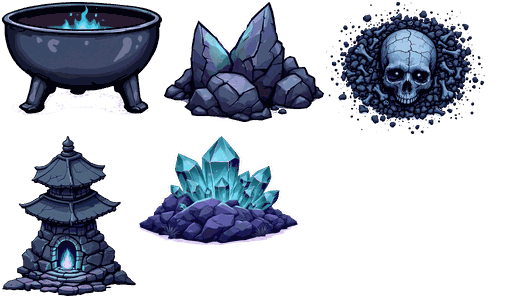
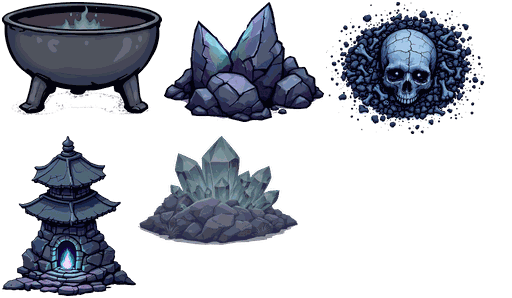
Chapters 4 and 5: flatter grounds so the horde reads on a phone
The cave was dark and busy (ground L* median 18, deep cracks right at the
mobs' ink lightness) and its cyan crystals and cauldron flame outshone the
teal robes. It is now flattened to a third of its spread, lifted to a mid,
nearly grey stone between the ink and the robes, and the two loud props are
toned down by dim_props.py. The street keeps its warm grey but goes darker
with every tone pulled toward the slab (flagstone_tile.py --relief), so the
ghosts stand above it. Mob pixels within dE 15 of the ground behind them on
a paused phone frame, wave 12: ch5 32.1% to 19.1%, ch4 17.1% to 16.4%
(160-mob sandbox: 37.5% to 26.4%, 21.4% to 17.7%). READMEs carry the
commands and numbers.

Changed region(s): [[0.25, 0.453, 0.5938, 0.8456], [0.0, 0.0, 0.3125, 0.3624], [0.2188, 0.302, 0.2812, 0.3624]]

diff --git a/tools/flagstone_tile.py b/tools/flagstone_tile.py
@@ -1,6 +1,9 @@
 """Draws a seamless flagstone ground tile: staggered rows of uneven slabs with dark seams,
 a few cracks, puddles and paper scraps, in flat colours (no generated picture needed).
 usage: python flagstone_tile.py <out.png> [--size 512] [--seed 4] [--rgb 70,78,96] [--seam 0.55]
+       [--relief 1]
+--relief scales every tone's distance from the slab colour (seams, lips, puddles, scraps): below 1
+flattens the street so the characters on it read first.
 Everything is drawn on a 3x3 canvas and the middle cut out, so slabs that cross an edge
 wrap round to the other side."""
 import argparse
@@ -14,20 +17,23 @@ ap.add_argument("--size", type=int, default=512)
 ap.add_argument("--seed", type=int, default=4)
 ap.add_argument("--rgb", default="70,78,96", help="the slabs' mean colour")
 ap.add_argument("--seam", type=float, default=0.55, help="the seams' and cracks' share of the slab colour")
+ap.add_argument("--relief", type=float, default=1.0, help="how far the other tones stray from the slab colour")
 ap.add_argument("--colors", type=int, default=64)
 a = ap.parse_args()
 
 rnd = random.Random(a.seed)
 N = a.size
 base = tuple(int(v) for v in a.rgb.split(","))
-SEAM = tuple(max(0, int(c * a.seam)) for c in base)
-ROWS = 5
-row_h = N // ROWS
 
 
 def jitter(c, k):
+    k = 1 + (k - 1) * a.relief if a.relief != 1 else k
     return tuple(max(0, min(255, int(v * k))) for v in c)
 
+
+SEAM = jitter(base, a.seam)
+ROWS = 5
+row_h = N // ROWS
 
 img = Image.new("RGB", (3 * N, 3 * N), SEAM)
 d = ImageDraw.Draw(img)
@@ -89,7 +95,8 @@ for _ in range(9):
     s = rnd.randint(7, 11)
     t = rnd.uniform(-0.5, 0.5)
     quad = [(x - s, y - s * 0.6 + t * s), (x + s, y - s * 0.6 - t * s), (x + s, y + s * 0.6 - t * s), (x - s, y + s * 0.6 + t * s)]
-    paper = jitter((124, 130, 146), rnd.uniform(0.85, 1.0))
+    k = rnd.uniform(0.85, 1.0)
+    paper = tuple(int(b + (int(p * k) - b) * a.relief) for b, p in zip(base, (124, 130, 146)))
     each(lambda ox, oy, quad=quad, paper=paper: d.polygon([(px + ox, py + oy) for px, py in quad], fill=paper))
 
 tile = img.crop((N, N, 2 * N, 2 * N))

diff --git a/art/monk/ground/demon/dim_props.py b/art/monk/ground/demon/dim_props.py
@@ -1,0 +1,30 @@
+"""Tones chapter 5's loud props (the cyan crystals, the cauldron's flame) down toward the cave stone,
+so they stop competing with the teal-robed horde: cut out, saturation and the spread of
+brightness are cut, the black outline is kept.
+usage: python dim_props.py name... (reads <name>_v2.png, writes <name>_v3.png, already cut out)"""
+import sys
+from pathlib import Path
+
+import numpy as np
+from PIL import Image
+
+sys.path.insert(0, str(Path(__file__).resolve().parents[4] / 'tools'))
+from cutout import cutout  # noqa: E402
+
+SAT = 0.4       # saturation multiplier
+SPREAD = 0.45   # brightness spread around MID
+MID = 0.34      # the stone's brightness the props are pulled toward
+OUTLINE = 0.16  # darker than this is ink and stays
+
+for name in sys.argv[1:]:
+    im = cutout(f'{name}_v2.png')
+    alpha = im.getchannel('A')
+    hsv = np.asarray(im.convert('RGB').convert('HSV'), dtype=np.float32) / 255
+    v = hsv[..., 2]
+    ink = v < OUTLINE
+    hsv[..., 1] *= SAT
+    hsv[..., 2] = np.where(ink, v, MID + (v - MID) * SPREAD)
+    out = Image.fromarray((np.clip(hsv, 0, 1) * 255).round().astype(np.uint8), 'HSV').convert('RGB')
+    out.putalpha(alpha)
+    out.save(f'{name}_v3.png', optimize=True)
+    print(name, out.size)

diff --git a/art/monk/ground/demon/README.md b/art/monk/ground/demon/README.md
@@ -2,13 +2,24 @@
 
 - **Tile**: `cave_src.png`, generated from `cave.txt` (its embers asked for cold blue, not
   violet), cropped to its inner square 180,60-880,760 past the vignette and made seamless by
-  `tools/make_tile.py --value 0.24 --sat 0.7 --contrast 0.6` into
+  `tools/make_tile.py --value 0.40 --sat 0.3 --contrast 0.21` (see the retune below) into
   `client/public/art/ch5/ground/cave.png`. Before it was generated the floor was drawn in code
   by `tools/rock_tile.py --rgb 50,52,58 --ember 120,92,180 --embers 10` (Voronoi rock plates on a
   torus); kept as a fallback.
 - **Props**: brazier, spikes, bones, stupa and crystals, generated by text-to-image from the
   `*.txt` prompts here. They came back with violet glows (flames, crystals, skull eyes) and
   violet is kept for enemy attacks, so `cool_glow.py` turns saturated violet cold blue into
-  `*_v2.png`. Packed (as `<name>.png` copies of the `_v2`) by `tools/pack_deco.py` into
+  `*_v2.png`. Packed (as `<name>.png` copies of the `_v2`, the `_v3` for crystals and brazier) by `tools/pack_deco.py` into
   `client/public/art/ch5/ground/cave_deco.{png,json}` (`PEAK_DECO` in
   `client/src/game/decoView.ts`).
+- **Retuned 2026-10-20** because the horde got lost on the floor. The first grade
+  (`--value 0.24 --sat 0.7 --contrast 0.6`) gave a dark, busy cave: ground L* 9/18/29
+  (p10/50/90) with deep cracks on 4.5% of it, right where the mobs' black hair and outlines sit
+  (a fifth of their pixels are below L* 20), and its cracks drew false edges through them. The
+  bright cyan crystals and the cauldron's flame also outshone the teal robes. Now the floor is
+  flattened to about a third of its spread, lifted to a mid stone (L* 23/31/42, between the ink
+  and the robes) and nearly grey, so the mobs read as dark silhouettes with teal fills; and
+  `dim_props.py` (saturation x0.4, brightness spread x0.45 around the stone's, ink kept) turns
+  `crystals_v2`/`brazier_v2` into `crystals_v3`/`brazier_v3`, packed in their place. Mob pixels
+  within dE 15 of the ground behind them, on a paused phone frame: 37.5% to 26.4% in the
+  160-mob sandbox and 32.1% to 19.1% on wave 12; false edges 4.5% to 1.4%.

diff --git a/art/monk/ground/ghost/README.md b/art/monk/ground/ghost/README.md
@@ -1,6 +1,6 @@
 # Chapter 4 ground: the Ghost Market (2026-10-04)
 
-- **Tile**: no generated picture. `tools/flagstone_tile.py --rgb 90,86,82 --seam 0.75` draws
+- **Tile**: no generated picture. `tools/flagstone_tile.py --rgb 64,58,52 --seam 0.75 --relief 0.45` draws
   the night street in code: staggered rows of uneven flagstones with dark seams, one hard cel
   lip each, a few cracks, puddles and paper scraps, seamless by construction, into
   `client/public/art/ch4/ground/street.png`. `street.txt` is the prompt for a generated one.
@@ -12,6 +12,14 @@
   cold mobs stand on olive ground. A warm grey stone, a bit lighter (mean L* 27 to 35) with
   shallower seams, plus a warm grey tint on the blue props (`GHOST_DECO`), brought the same
   frame to 27% (19%) and lets the ghosts read by hue; the cyan lantern-light patches keep it night.
+  (That tile was `--rgb 90,86,82 --seam 0.75`.)
+- **Retuned 2026-10-20**: with the hue settled, the street still sat at the ghosts' own
+  lightness (ground L* median 30 to their 41-44) and its lips, puddles and scraps were busy
+  enough to break their outlines. A darker warm grey (`--rgb 64,58,52`, ground L* 17/21/36) with
+  every tone pulled to under half its distance from the slab (`--relief 0.45`, tile luma spread
+  10 to 4) puts the teal robes clearly above the floor: body contrast |dL*| 19.6 to 22.0, mob
+  pixels within dE 15 of the ground on a paused phone frame 21.4% to 17.7% (160-mob sandbox)
+  and 17.1% to 16.4% on wave 12, where the light patches and props already carried most of it.
 - **Props**: stall, jars and burner, generated by text-to-image from the `*.txt` prompts here
   (the `*_v0.png` were warm or off-style rejects) and packed by `tools/pack_deco.py` into
   `client/public/art/ch4/ground/street_deco.{png,json}` (`GHOST_DECO` in
